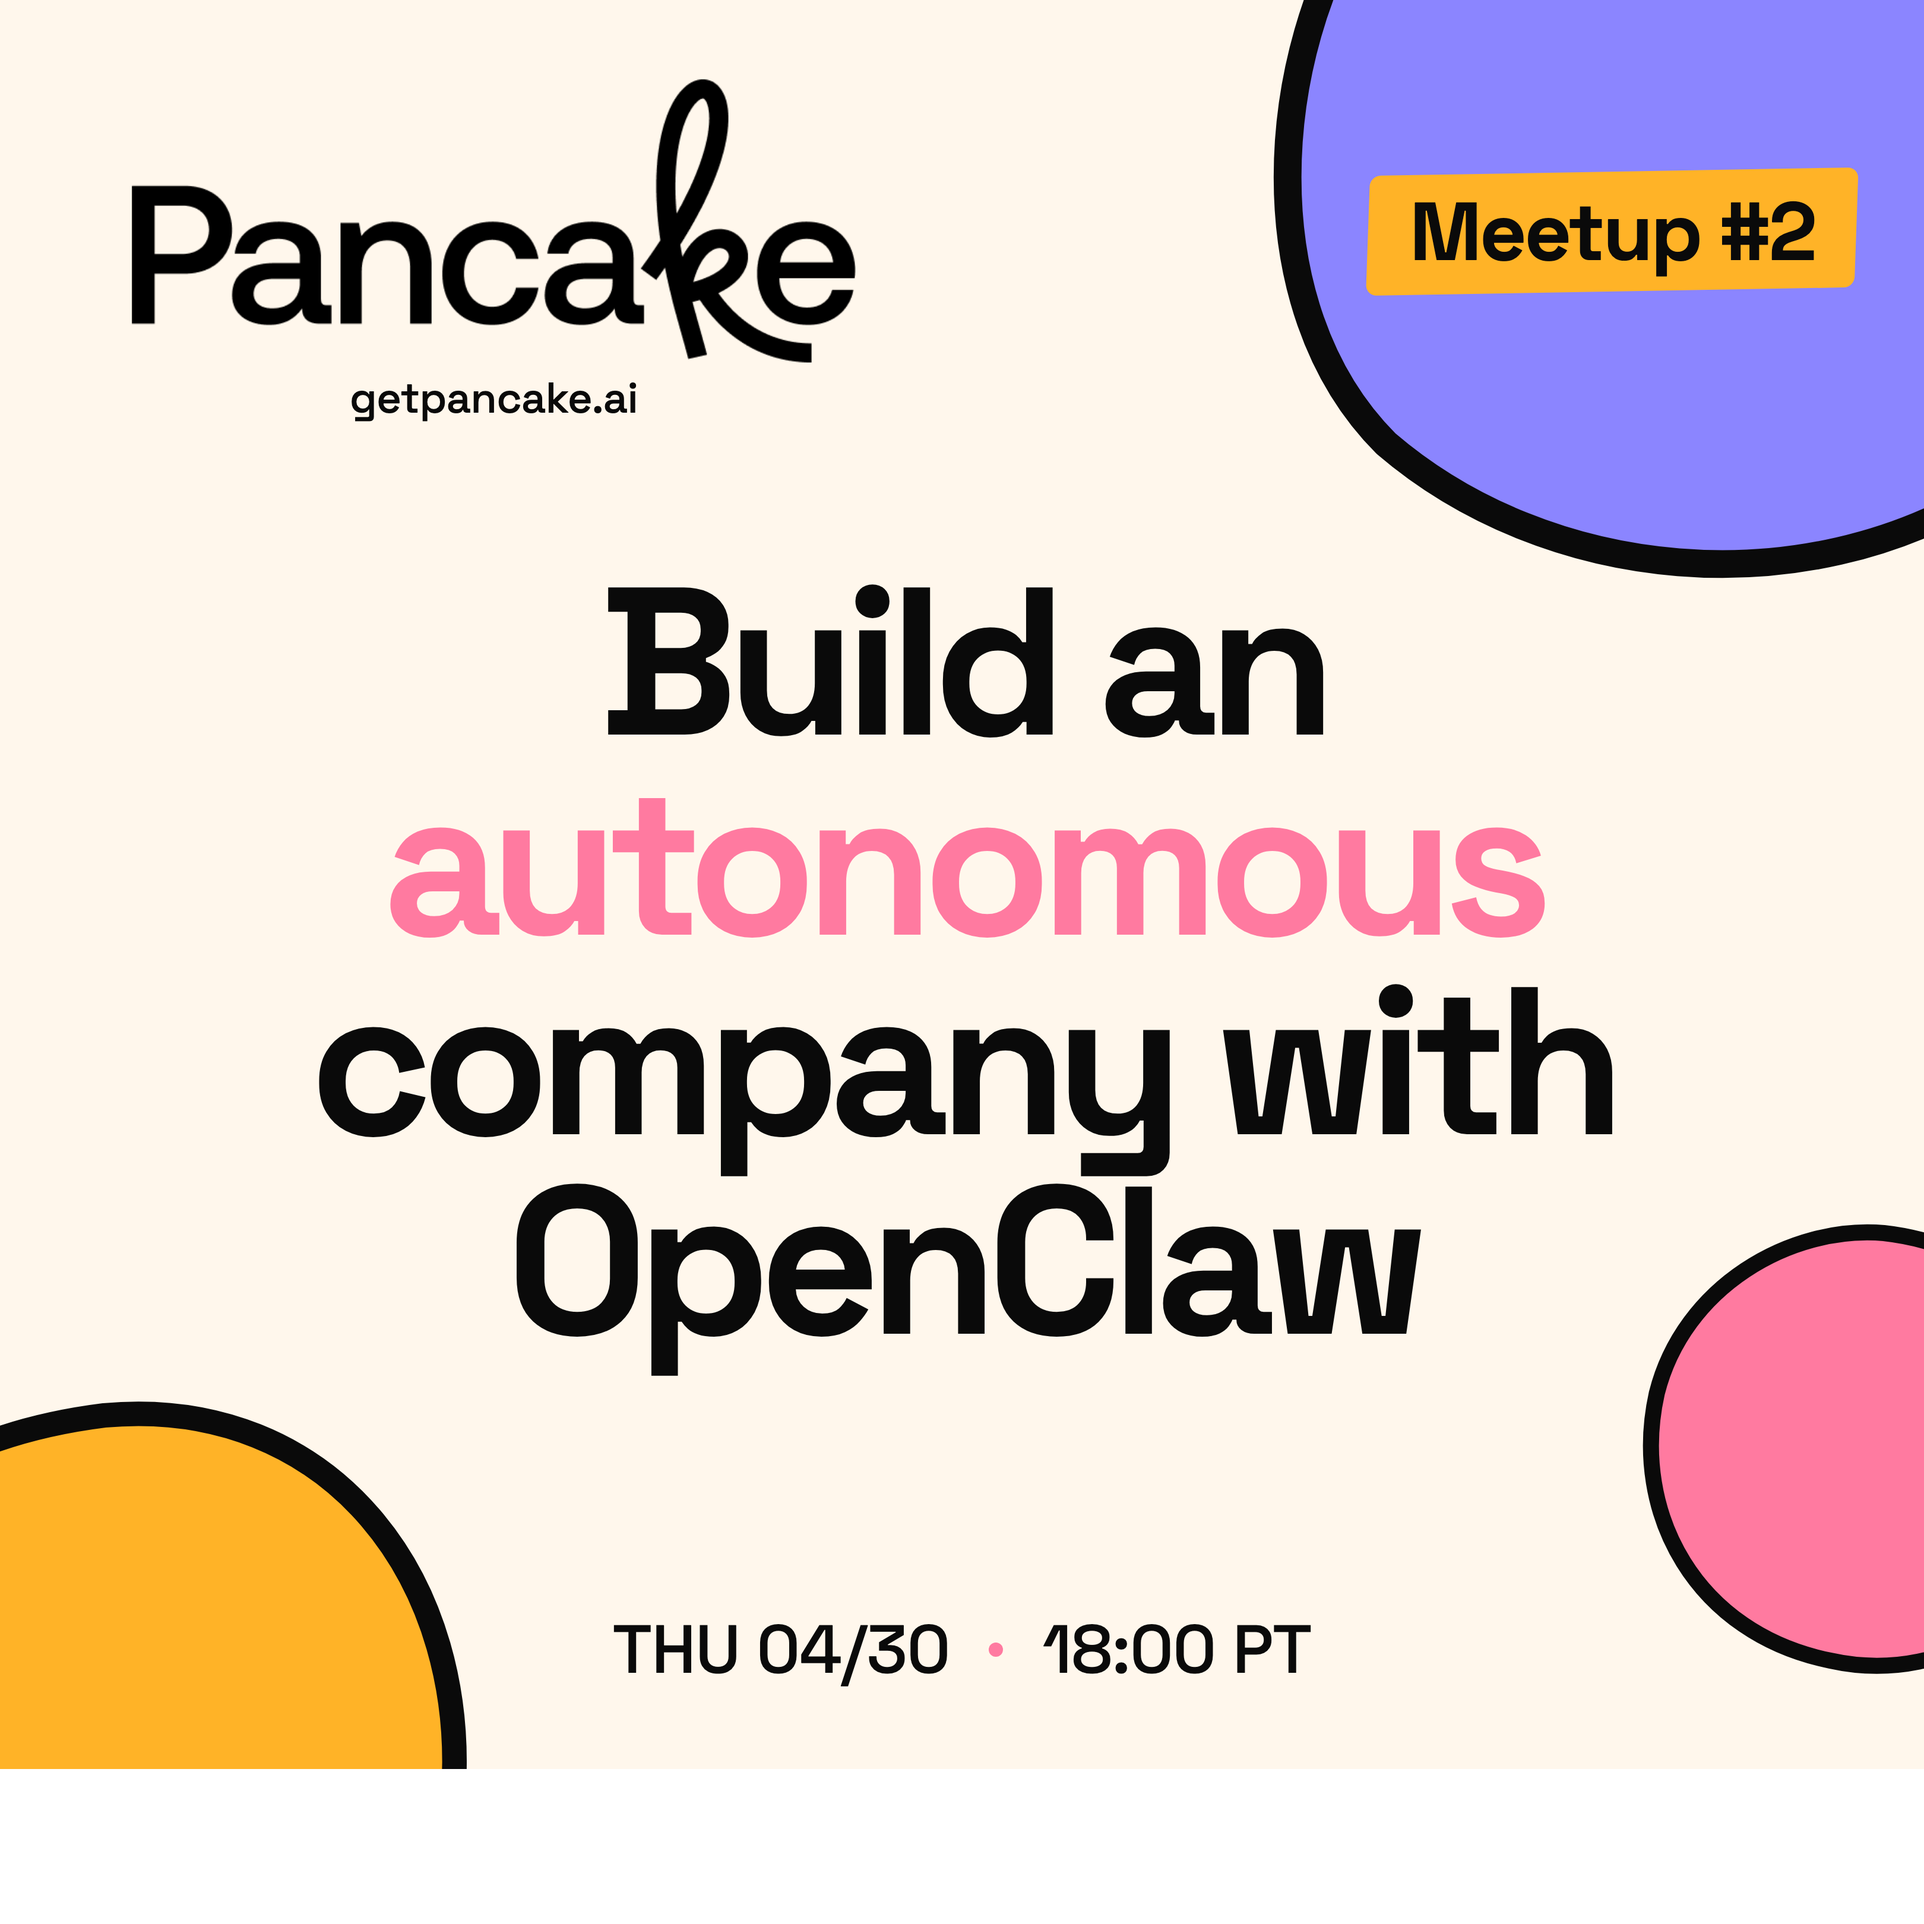
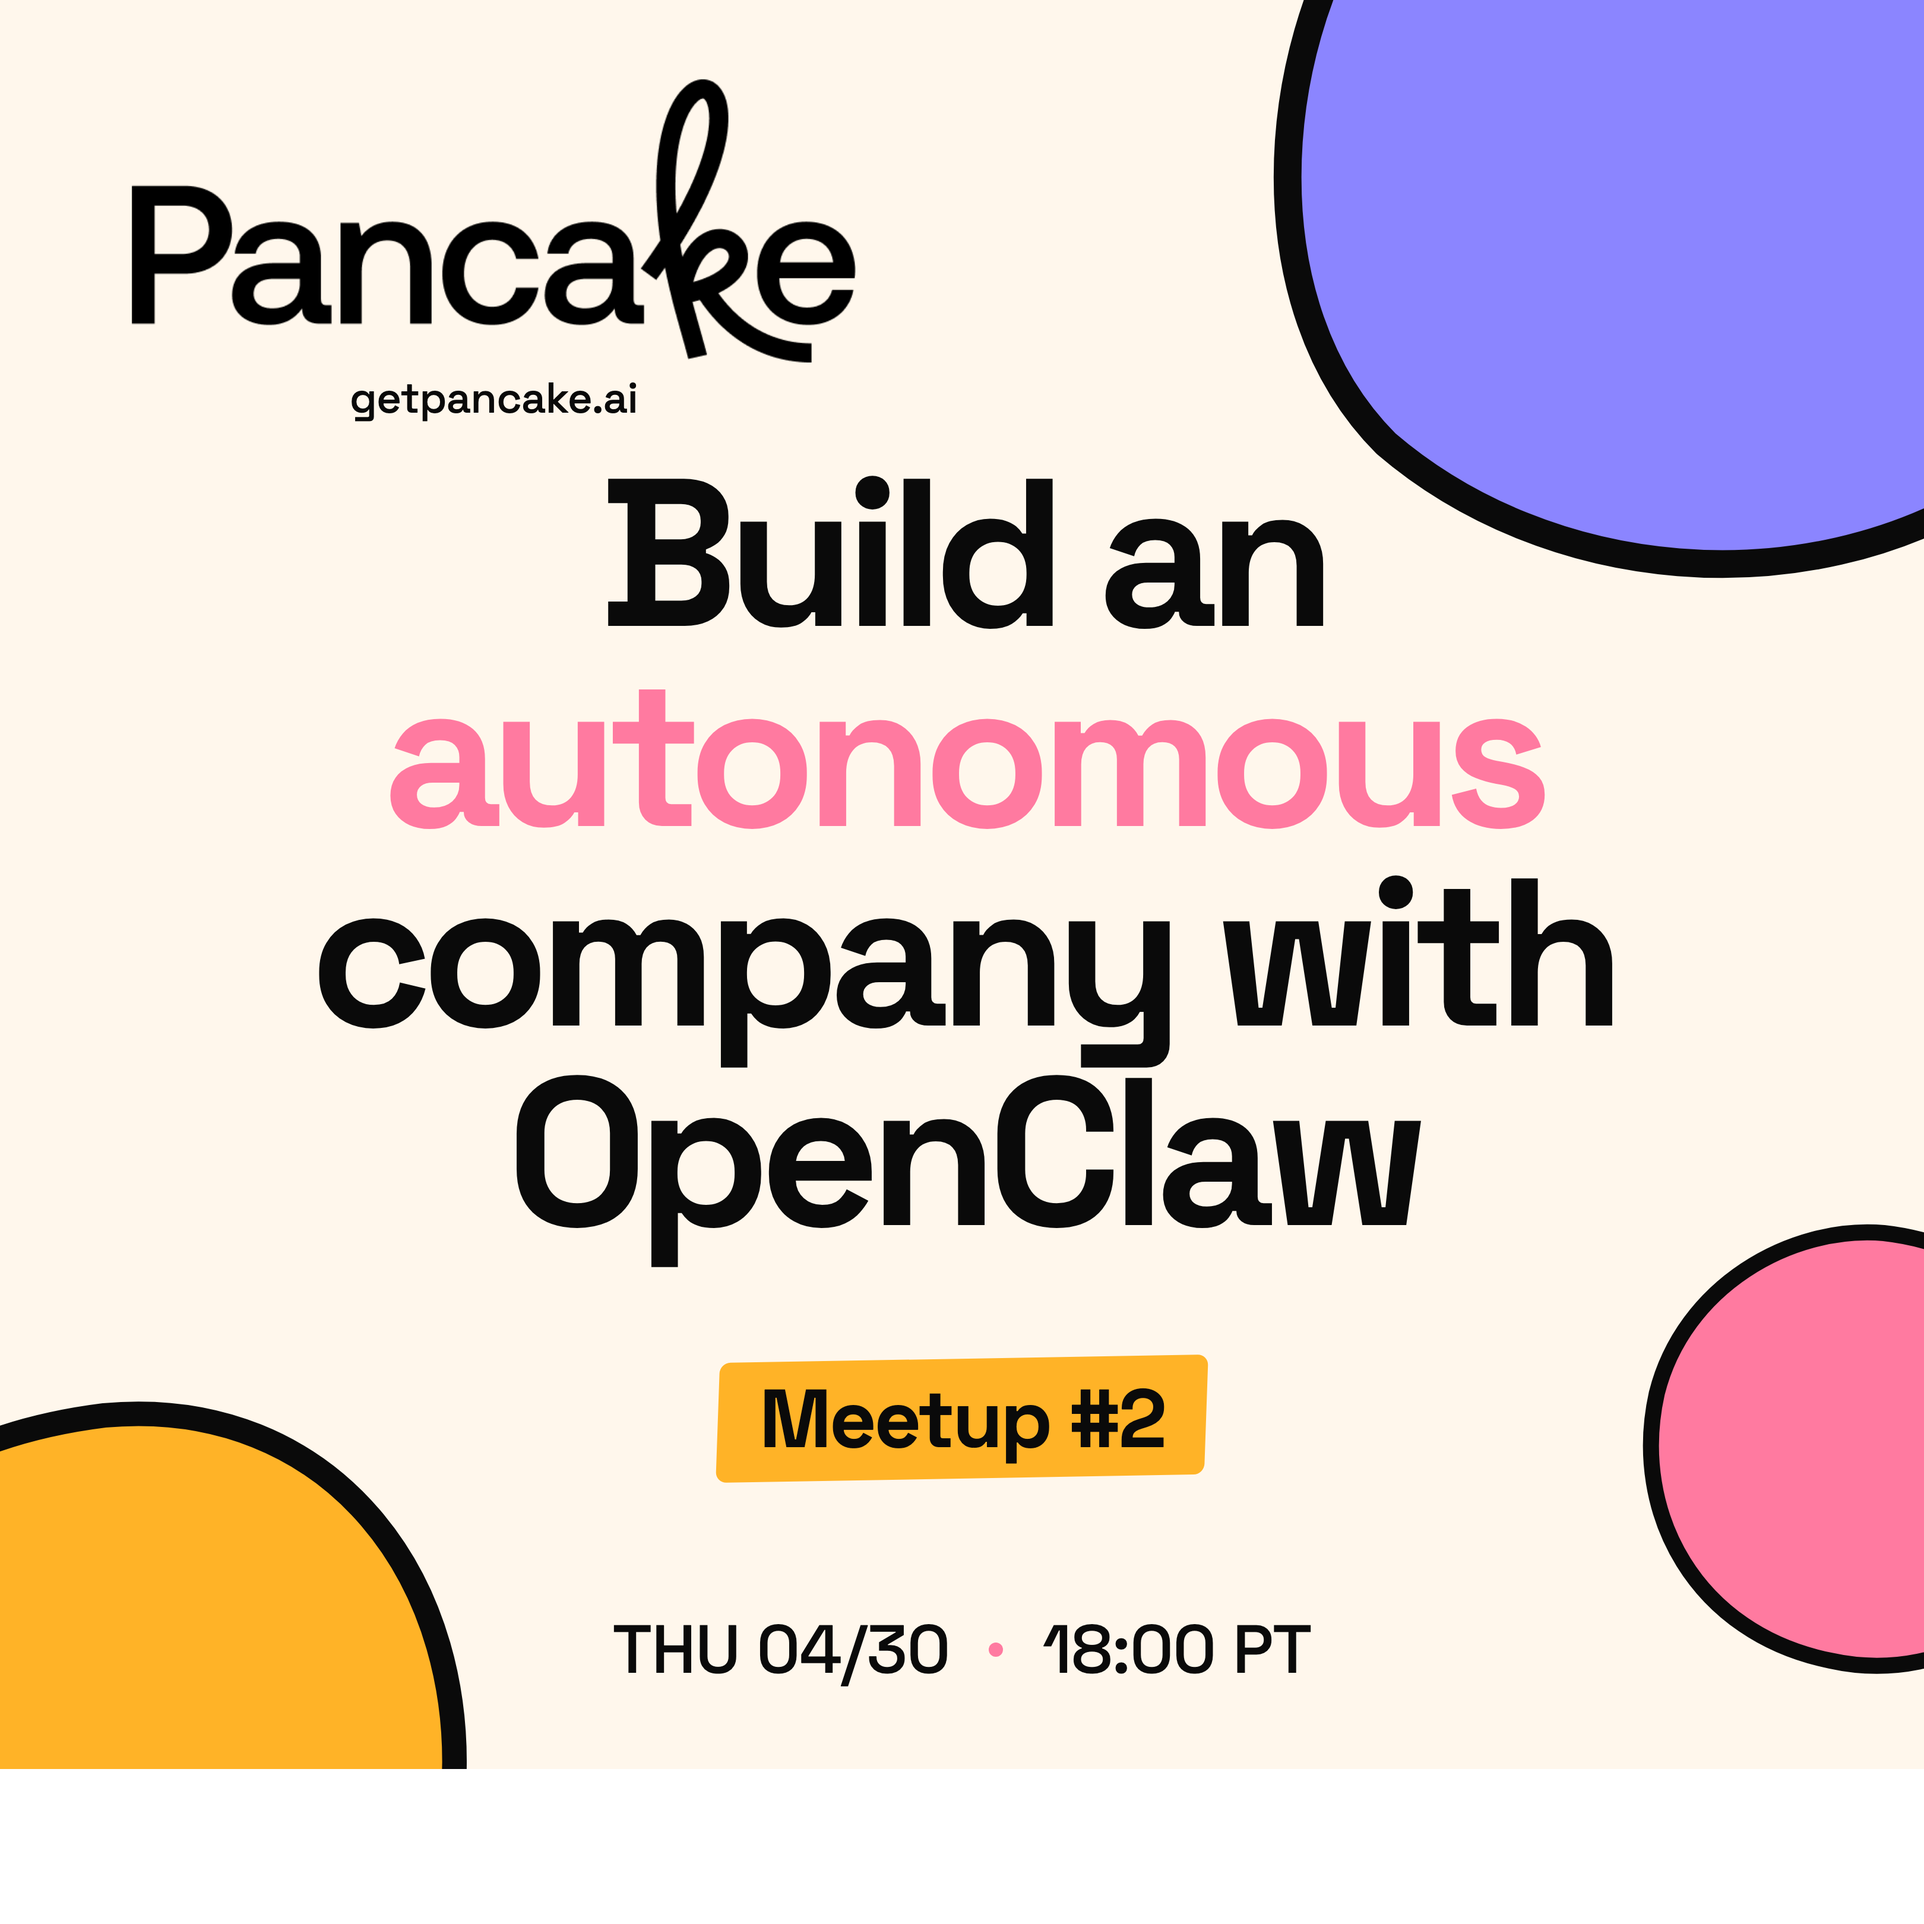
Luma visual: move Meetup #2 badge under headline, above date
Made-with: Cursor

Changed region(s): [[0.1559, 0.2494, 0.8417, 0.7793], [0.6858, 0.0623, 0.9664, 0.1559]]

diff --git a/public/luma-visual.html b/public/luma-visual.html
@@ -211,13 +211,10 @@
         display: block;
       }
 
-      /* "Meetup #2" label sitting on the purple blob, with orange highlighter */
+      /* "Meetup #2" label sitting under the headline, with orange highlighter */
       .edition {
-        position: absolute;
-        top: 130px;
-        left: 905px;
-        transform: translate(-50%, -50%);
-        z-index: 9;
+        position: relative;
+        z-index: 6;
         font-family: var(--font-display);
         font-weight: 700;
         font-size: 46px;
@@ -227,6 +224,7 @@
         white-space: nowrap;
         padding: 6px 18px;
         display: inline-block;
+        margin-top: 28px;
       }
       .edition::before {
         content: "";
@@ -338,8 +336,6 @@
         <span class="logo-url">getpancake.ai</span>
       </div>
 
-      <div class="edition">Meetup #2</div>
-
       <section class="content">
         <h1>
           <span>Build an</span>
@@ -347,7 +343,7 @@
           <span>company with</span>
           <span>OpenClaw</span>
         </h1>
-
+        <div class="edition">Meetup #2</div>
       </section>
 
       <div class="footer">
